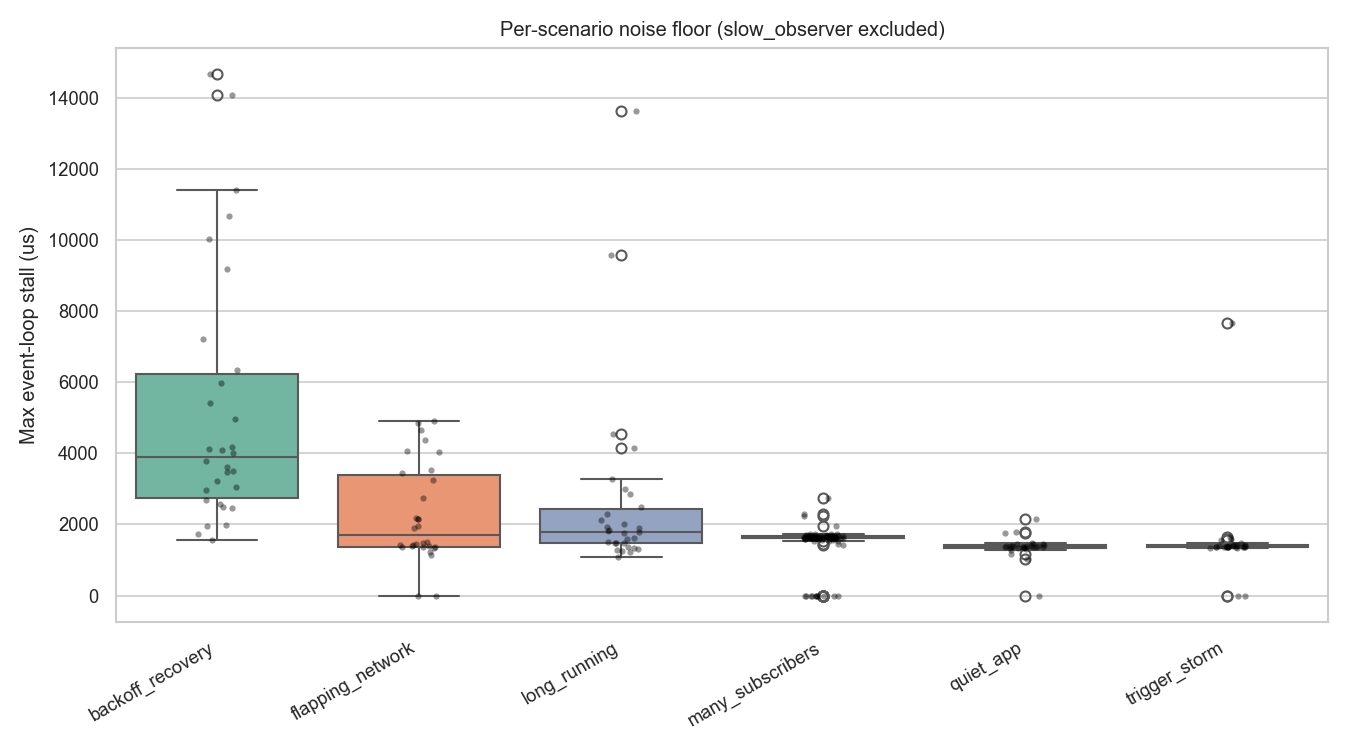
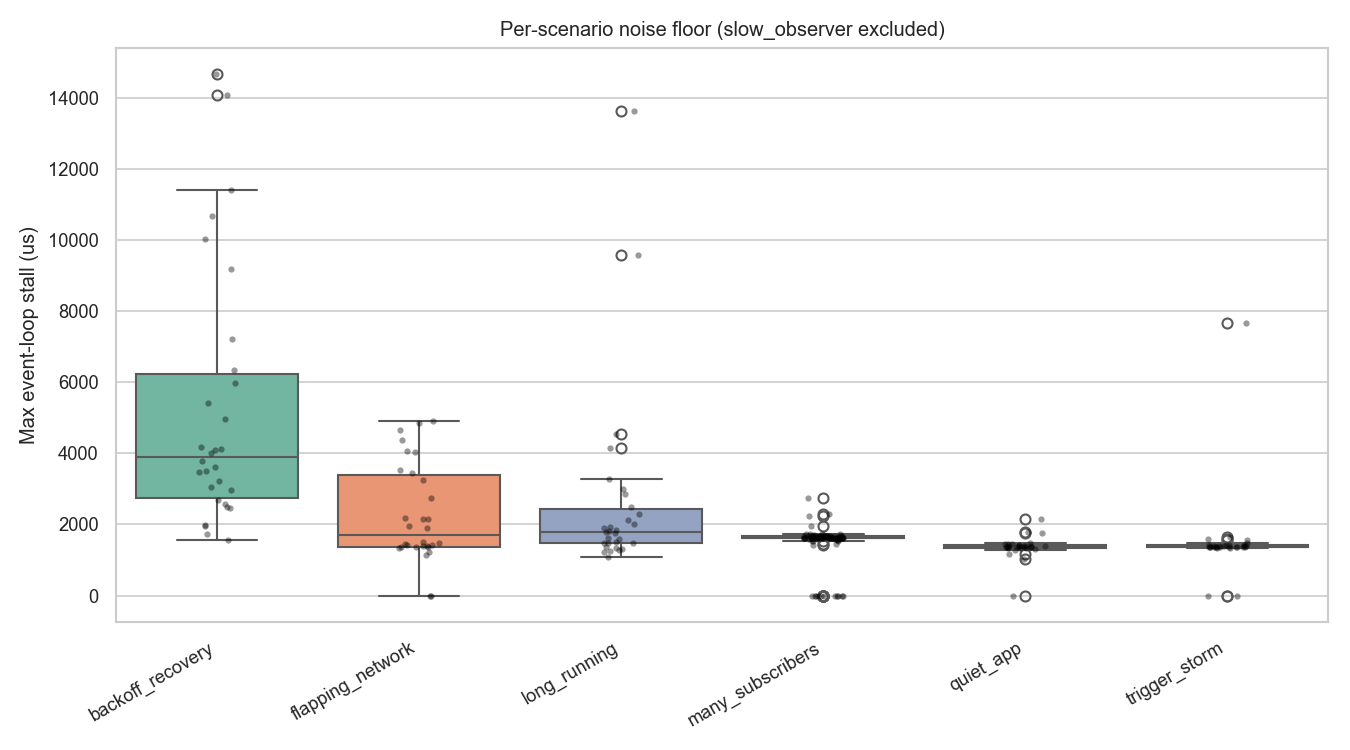
docs: [#69] slow_observer max is two sleeps

diff --git a/benchmark/harness/event_loop_stall_meter.dart b/benchmark/harness/event_loop_stall_meter.dart
@@ -15,9 +15,9 @@ import 'package:collection/collection.dart';
 /// **Why gaps and not drift.** The retired `TickDriftMeter` measured each heartbeat against a
 /// schedule that advanced once per *received* callback. Since the VM coalesces missed ticks, its
 /// `maxDrift` was really a running total of lost time scaled by run duration, not a latency: a 5 s
-/// run read ~2.75 s of "drift" when no single stall passed ~50 ms. Gaps keep each blocking window
-/// separate, so [maxStall] compares across run lengths. `Timer.tick` correction is no help either, it
-/// self-adjusts past the coalescing and hides the stall completely.
+/// run read ~2.75 s of "drift" when the worst single stall was two observer sleeps. Gaps keep each
+/// blocking window separate, so [maxStall] compares across run lengths. `Timer.tick` correction is
+/// no help either, it self-adjusts past the coalescing and hides the stall completely.
 ///
 /// ```dart
 /// final meter = EventLoopStallMeter()..start();

diff --git a/benchmark/scenarios/slow_observer.dart b/benchmark/scenarios/slow_observer.dart
@@ -2,7 +2,8 @@
 ///
 /// The observer sleeps 50 ms per callback against a 100 ms check interval. The numbers belong to the
 /// observer, not to dispatch: one isolate means 50 ms of sync work parks the loop for 50 ms whichever
-/// queue it came off. Expect `max_stall_microseconds` near the per-callback delay, and
+/// queue it came off. Expect `max_stall_microseconds` near twice the per-callback delay, since the
+/// opening check fires `onStatusChangeEmitted` and `onCheckCompleted` in one turn, and
 /// `blocked_duty_ratio` near delay over interval, so roughly 0.5 here.
 ///
 /// What the event-bus refactor did change is cadence. The next tick is armed before observer

diff --git a/benchmark/python/bicc_bench/data/utils/markdown.py b/benchmark/python/bicc_bench/data/utils/markdown.py
@@ -24,8 +24,9 @@ def value_formatter(units: str) -> Callable[[float | int | None], str]:
 
     Precision tier (for "us" / freeform): values >= 1000 round to integers
     with thousands separators; values 1-1000 get two decimal places; sub-1
-    values get three. Keeps both the slow_observer headline (~50k us) and
-    the status_emission micro (~0.13 us / emit) readable in the same table.
+    values get three. Keeps both the slow_observer headline (five figures of
+    us) and the status_emission micro (sub-1 us per emit) readable in the
+    same table.
 
     "MB" divides byte-valued numbers by 1024^2 and shows two decimals.
     "%" multiplies ratio-valued numbers (0..1) by 100 and appends a percent
@@ -161,10 +162,12 @@ def render_summary_markdown(
         "Longest single continuous window in which synchronous work blocked "
         "the event loop (gap between 1 ms heartbeats, minus the heartbeat "
         "interval). The `slow_observer` scenario wires a deliberately-"
-        "misbehaving observer that sleeps 50 ms per callback, so its box "
-        "should sit at ~50k us - the observer's own blocking time, which no "
-        "dispatch strategy can mask on a single-threaded isolate. The other "
-        "scenarios show the package's intrinsic noise floor.\n",
+        "misbehaving observer that sleeps 50 ms per callback, which no "
+        "dispatch strategy can mask on a single-threaded isolate. Expect "
+        "about twice that here: the opening check fires a status change and "
+        "a check-completed callback in the same turn, and every later window "
+        "holds one. The other scenarios show the package's intrinsic noise "
+        "floor.\n",
         metric_table(dataframe, "max_stall_microseconds", units="us"),
     ]
 
@@ -270,7 +273,7 @@ def render_compare_markdown(
         [
             "## Headline: max event-loop stall, baseline vs current\n",
             "Paired box plot per scenario. `slow_observer`'s box is pinned "
-            "at its observer's per-callback blocking time (~50k us) by "
+            "at about twice its observer's per-callback delay by "
             "design - a code change cannot move it, only a change to the "
             "harness observer can. The other scenarios are the noise floor "
             "and should not move significantly.\n",

diff --git a/benchmark/python/bicc_bench/data/utils/charts.py b/benchmark/python/bicc_bench/data/utils/charts.py
@@ -52,9 +52,10 @@ def plot_headline_max_stall(dataframe: pl.DataFrame, out_path: Path) -> Path:
     """Box plot of max_stall_microseconds per scenario, log y-scale.
 
     `slow_observer` blocks the event loop with sleep(50ms) per callback, so
-    its box sits at the observer's own blocking time (~50k us) - roughly an
-    order of magnitude above the other scenarios' noise floor on the log
-    axis. That gap is the single-isolate blocking cost, not a package bug.
+    its box sits roughly an order of magnitude above the other scenarios'
+    noise floor on the log axis. That gap is the single-isolate blocking
+    cost, not a package bug. The box lands at about twice the per-callback
+    delay, because the opening check fires two callbacks in one turn.
     """
     metric = "max_stall_microseconds"
     plot_df = (
@@ -120,8 +121,8 @@ def plot_memory_peak_rss_delta(dataframe: pl.DataFrame, out_path: Path) -> Path:
 def plot_scenario_stability(dataframe: pl.DataFrame, out_path: Path) -> Path:
     """Box plot of max_stall_microseconds EXCLUDING slow_observer.
 
-    Slow observer's stall ceiling is its observer's 50 ms sleep - an order
-    of magnitude above the others - so it dominates the y-scale of the
+    Slow observer's stall ceiling is two of its observer's sleeps, an order
+    of magnitude above the others, so it dominates the y-scale of the
     headline chart. Excluding it here lets the noise floor of the other
     scenarios be readable. Narrow boxes = reproducible.
     """

diff --git a/benchmark/README.md b/benchmark/README.md
@@ -186,11 +186,12 @@ can't be defended.
 
 The **headline metric** is `max_stall_microseconds` on the `slow_observer`
 scenario, the package's worst case under a deliberately-blocking synchronous
-observer. Expect it to pin at the observer's own per-callback delay (~50 ms):
-a Dart isolate is single-threaded, so no dispatch strategy can shrink it. What
-the package *does* control is its check cadence under that load
-(`observer_call_count` ÷ run duration, which should hold ~10/s at the 100 ms
-interval) and the noise floor on every other scenario.
+observer. Expect about twice the observer's per-callback delay: a Dart isolate is
+single-threaded, so no dispatch strategy can shrink a sleep, and the opening check
+fires a status change and a check-completed callback in one turn. Every later
+window holds one. What the package *does* control is its check cadence under
+that load (`observer_call_count` ÷ run duration, which should hold ~10/s at the
+100 ms interval) and the noise floor on every other scenario.
 
 ## Result JSON schema
 
@@ -303,8 +304,8 @@ set.
 ### `report` outputs (single dataset)
 
 - `headline_max_stall.png`: box plot of `max_stall_microseconds` per
-  scenario on a log y-axis. `slow_observer` sits at its observer's own
-  blocking time (~50k µs), and the rest is the package's noise floor.
+  scenario on a log y-axis. `slow_observer` sits at about twice its observer's
+  per-callback delay, and the rest is the package's noise floor.
 - `memory_peak_rss.png`: peak RSS per scenario in MB.
 - `scenario_stability.png`: `max_stall_microseconds` per scenario with
   `slow_observer` excluded so the noise floor is readable. Narrow boxes =

diff --git a/benchmark/reports/SUMMARY.md b/benchmark/reports/SUMMARY.md
@@ -6,7 +6,7 @@ Captured **2026-11-21** against `1.1.0` at `11d668f` on Dart SDK 3.14.0. N=30 it
 
 ## Headline: worst-case event-loop stall per scenario
 
-Longest single continuous window in which synchronous work blocked the event loop (gap between 1 ms heartbeats, minus the heartbeat interval). The `slow_observer` scenario wires a deliberately-misbehaving observer that sleeps 50 ms per callback, so its box should sit at ~50k us - the observer's own blocking time, which no dispatch strategy can mask on a single-threaded isolate. The other scenarios show the package's intrinsic noise floor.
+Longest single continuous window in which synchronous work blocked the event loop (gap between 1 ms heartbeats, minus the heartbeat interval). The `slow_observer` scenario wires a deliberately-misbehaving observer that sleeps 50 ms per callback, which no dispatch strategy can mask on a single-threaded isolate. Expect about twice that here: the opening check fires a status change and a check-completed callback in the same turn, and every later window holds one. The other scenarios show the package's intrinsic noise floor.
 
 | Scenario | N | Median (us) | IQR (us) | Min (us) | Max (us) |
 |---|---:|---:|---:|---:|---:|
